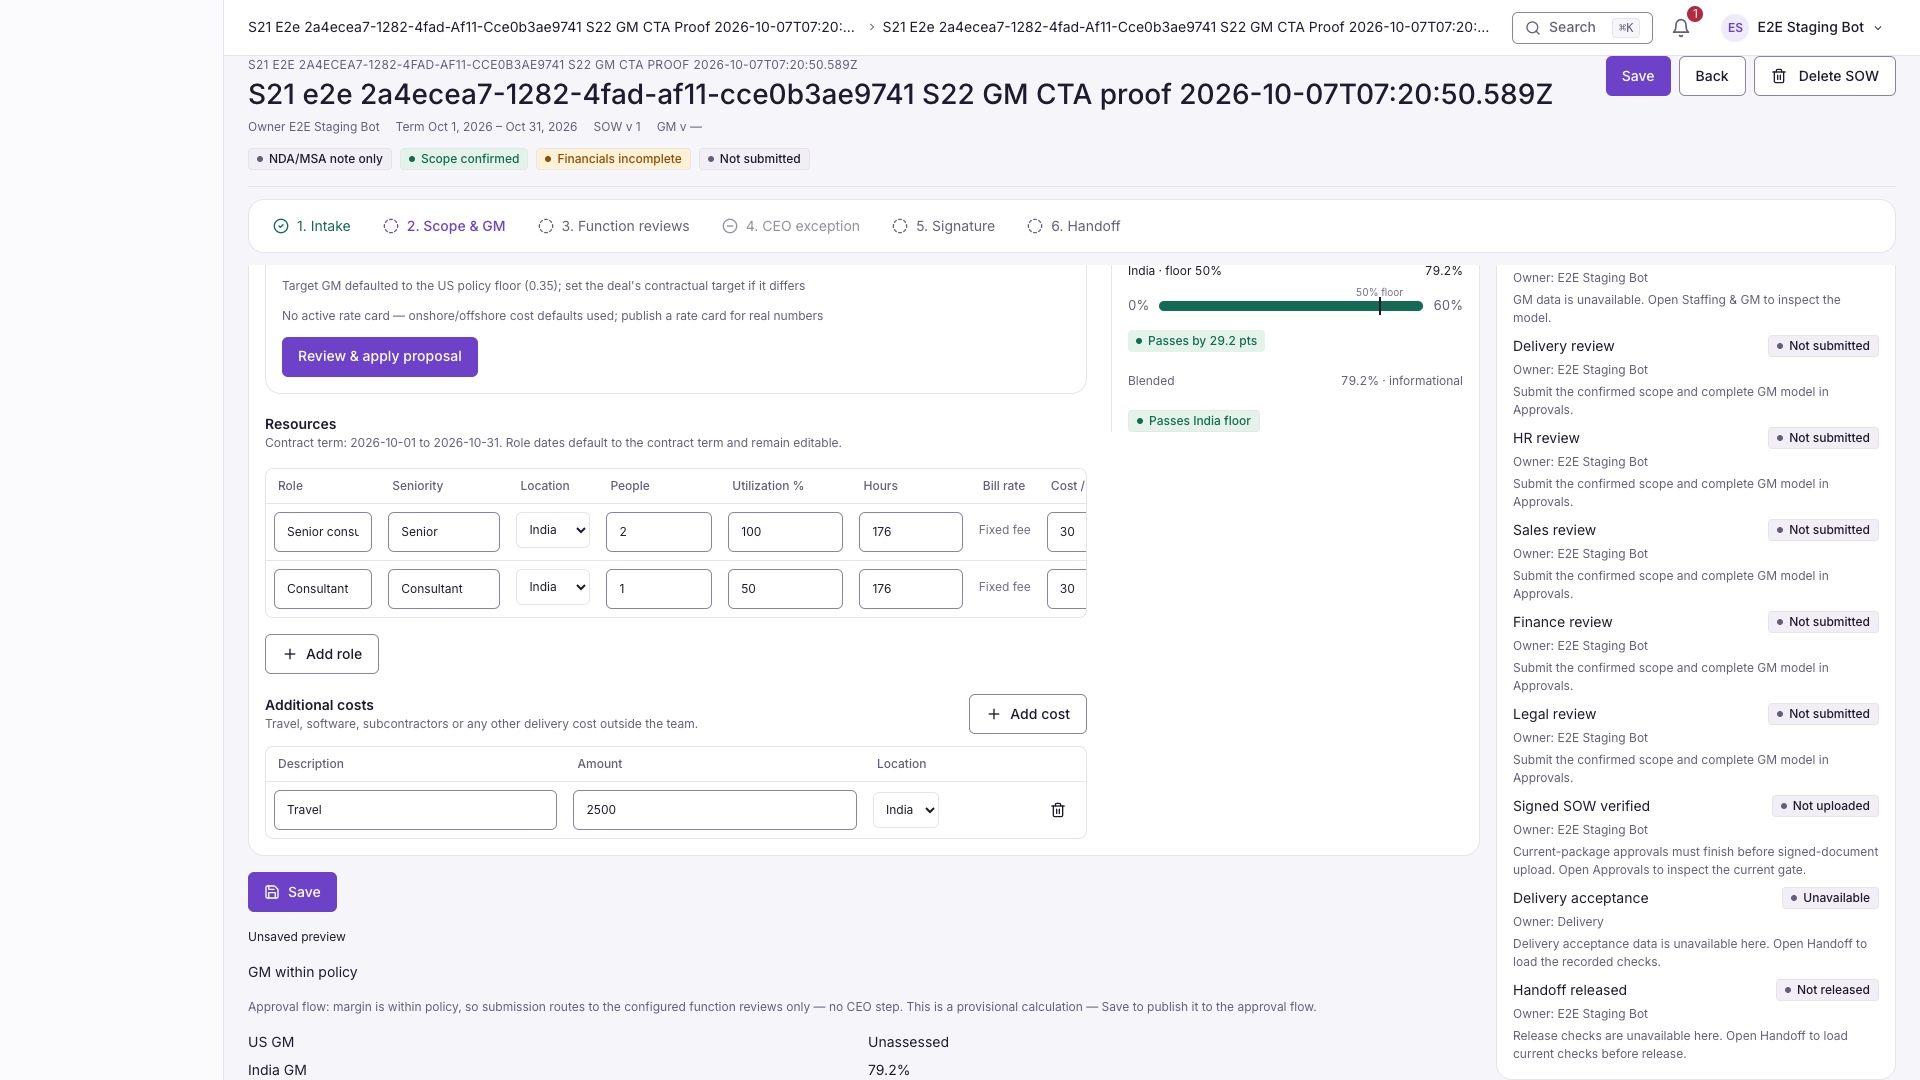
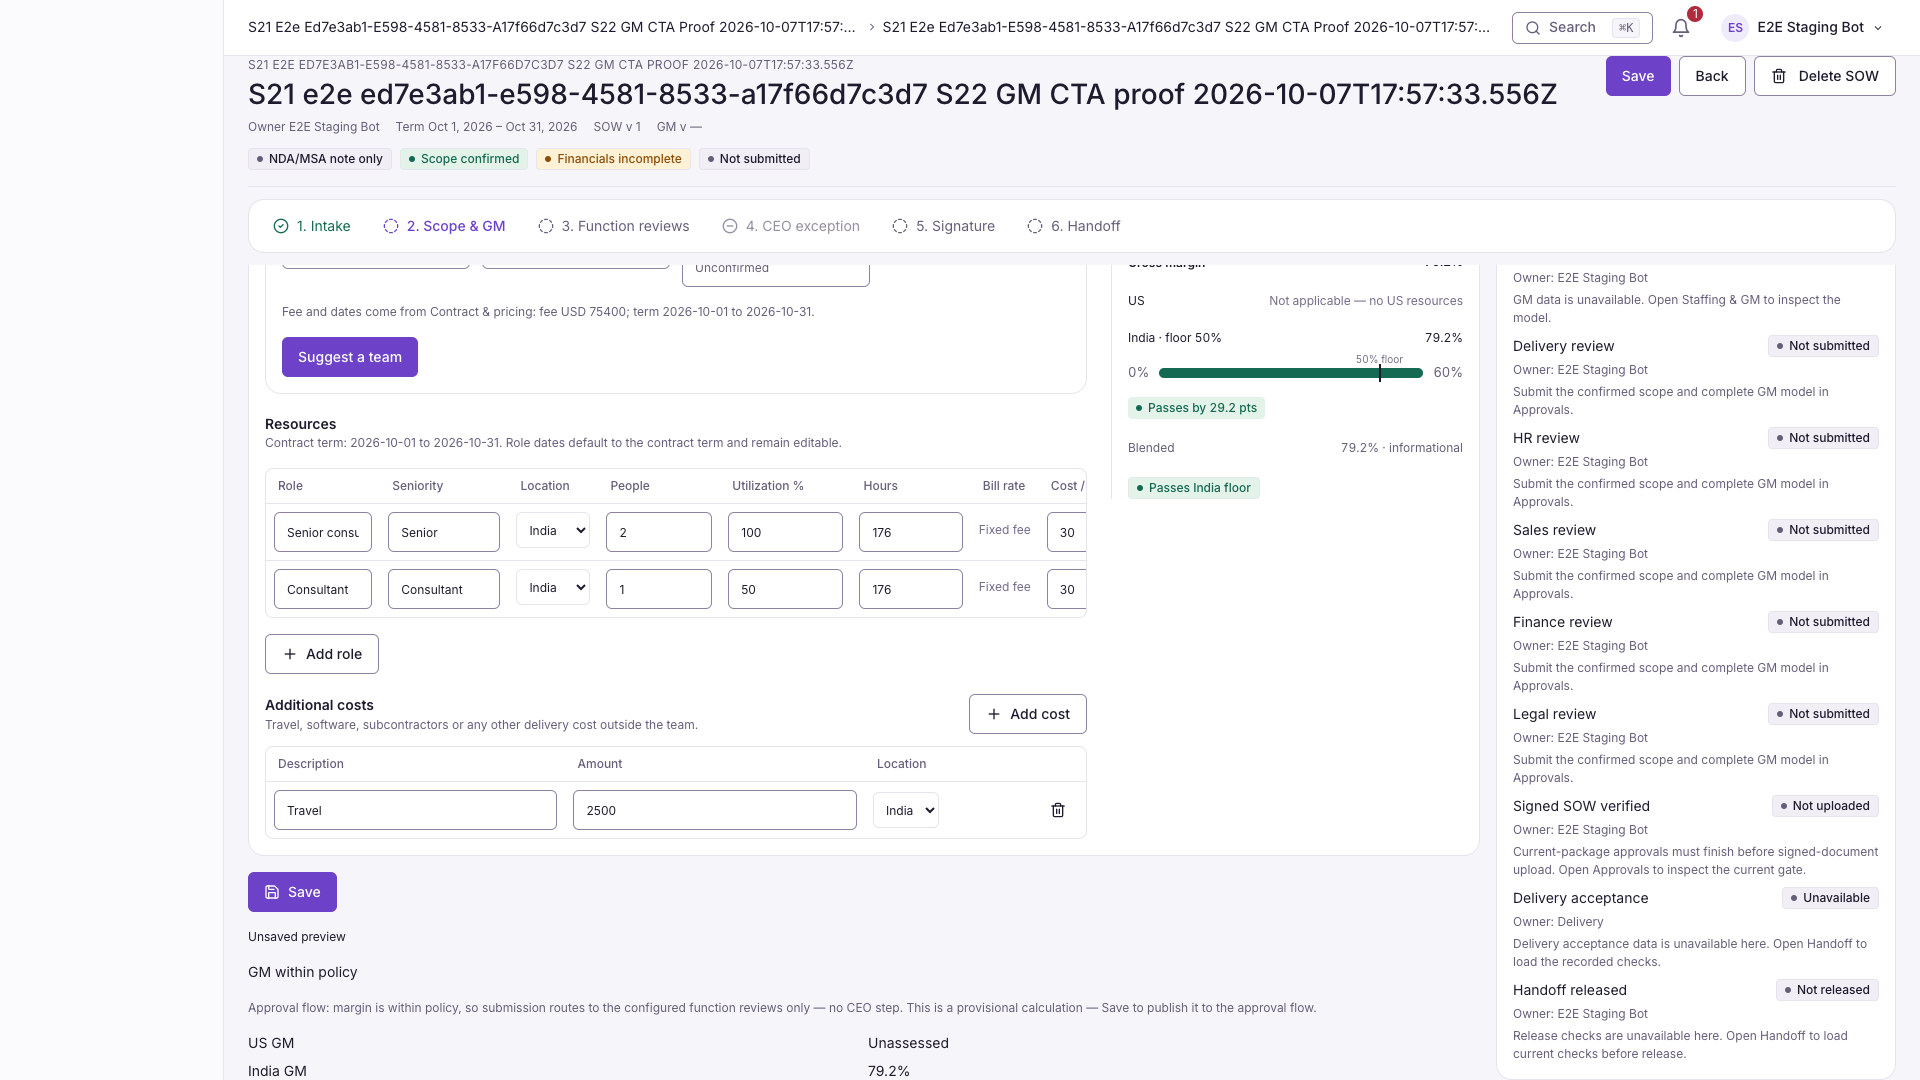
test(s22): prove confirm SOW staging flow

diff --git a/tests/e2e/specs/s21/s22-gm-cta-deployed-proof.spec.ts b/tests/e2e/specs/s21/s22-gm-cta-deployed-proof.spec.ts
@@ -133,6 +133,7 @@ test("fixed-fee staffing calculates, persists and advances without a CTA loop", 
       term_start: "2026-10-01",
       term_end: "2026-10-31",
       notice_date: "2026-10-15",
+      signatories: [{ name: "E2E Client Signatory", role: "Client" }],
       engagement_type_suggested: "fixed_price",
     };
     for (const field of REQUIRED_FIELDS) {
@@ -271,13 +272,30 @@ test("fixed-fee staffing calculates, persists and advances without a CTA loop", 
     await page.screenshot({ path: path.join(EVIDENCE, "02-calculated-financials-save-action.png") });
 
     await saveAction.click();
-    await expect(page.getByRole("status")).toContainText("Commercial version saved", { timeout: 45_000 });
-    await expect(page.getByRole("button", { name: "Submit for approval" })).toBeVisible({ timeout: 45_000 });
+    await expect(page).toHaveURL(new RegExp(`/sows/new\\?opportunityId=${opportunityId}`), {
+      timeout: 45_000,
+    });
+    await expect(page.getByRole("heading", { name: "Confirm SOW" })).toBeVisible();
+    await expect(page.getByTestId("field-row-term_start")).toContainText("2026-10-01");
+    await expect(page.getByTestId("field-row-term_end")).toContainText("2026-10-31");
+    await expect(page.locator("#section-staffing")).toContainText("79.2%");
+    const approvalPath = page.locator("#section-approvers");
+    for (const label of ["Delivery", "HR", "Finance", "Legal"]) {
+      await expect(approvalPath).toContainText(label);
+    }
+    await expect(approvalPath).toContainText("Not required");
+    await expect(page.getByRole("button", { name: "Submit for approval" })).toHaveCount(0);
+    await page.screenshot({ path: path.join(EVIDENCE, "03-confirm-sow-dates-gm-and-approval-path.png") });
+
     await page.reload();
+    await expect(page.getByRole("heading", { name: "Confirm SOW" })).toBeVisible({ timeout: 45_000 });
+    await expect(page.getByTestId("field-row-term_start")).toContainText("2026-10-01");
+    await expect(page.getByTestId("field-row-term_end")).toContainText("2026-10-31");
+    await expect(page.locator("#section-staffing")).toContainText("79.2%");
+
+    await page.getByRole("button", { name: "Complete scope" }).click();
+    await expect(page).toHaveURL(new RegExp(`/sows/${opportunityId}/approvals`), { timeout: 45_000 });
     await expect(page.getByRole("button", { name: "Submit for approval" })).toBeVisible({ timeout: 45_000 });
-    await expect(page.getByRole("region", { name: "GM summary" })).toContainText("$15,700");
-    await expect(page.getByRole("region", { name: "GM summary" })).toContainText("79.2%");
-    await page.screenshot({ path: path.join(EVIDENCE, "03-save-reload-submit-action.png") });
 
     await page.getByRole("button", { name: "Submit for approval" }).click();
     await expect(page.getByRole("heading", { name: "Submit for approval" })).toBeVisible();
@@ -290,7 +308,8 @@ test("fixed-fee staffing calculates, persists and advances without a CTA loop", 
     await expect(page).toHaveURL(new RegExp(`/sows/${opportunityId}/approvals`), { timeout: 45_000 });
     await expect(page.getByRole("button", { name: "View review status" })).toBeVisible({ timeout: 45_000 });
     await expect(page.getByText(/Submitted by/).first()).toBeVisible();
-    await page.screenshot({ path: path.join(EVIDENCE, "04-transition-persisted-review-status.png") });
+    await expect(page.getByText(/Pending with|Queued for/).first()).toBeVisible();
+    await page.screenshot({ path: path.join(EVIDENCE, "04-approvals-pipeline-status.png") });
   } finally {
     if (clientId) await deleteAndDrain(api, clientId);
     await api.dispose();

diff --git a/docs/s21/evidence/staging/s22-gm-cta/report.md b/docs/s21/evidence/staging/s22-gm-cta/report.md
@@ -2,18 +2,18 @@
 
 Tested 2026-10-07 PDT against `https://app.dealgateapp.com` from branch
 `fix/s22-gm-cta`, application checkpoint
-`e92b4ddfef82d0bc808f3fe524773f8dc874b5f7` and pre-deploy documentation
-checkpoint `60fde64f55e89ff924196fb64ca8afe9a4a5fcbb`.
+`5cd52ea490729227b380988288455273e9282684` and pre-deploy documentation
+checkpoint `0b5a04620b29c9339d65a0a62029bb8d5efd937c`.
 
 ## Deployed revisions
 
-- API: ECS task definition `officeapp-dev-api:88`, rollout completed 1/1
-- Image: `s22simple-e92b4dd`
-- Digest: `sha256:34dc726a5e1e4fd034d74c7513bb3d9d812459a2f1ecce3388880f3bff16a455`
-- Frontend: `assets/index-dqUPUe4H.js`, CSS `assets/index-CGMBFthR.css`
-- CloudFront invalidation: `ICQ1QCRL5JXEXS6V5DJFFZTIQ4` (completed)
-- Migration task: `e2518e23e4794eeeafb7aea0d051e255` (succeeded)
-- Deploy smoke: `smoke 20261007T071522Z` (green; cleanup gate clean)
+- API: ECS task definition `officeapp-dev-api:89`, rollout completed 1/1
+- Image: `s22confirm-5cd52ea`
+- Digest: `sha256:a037c926b3b0691ed5209e6f96c6b9bde7cf3b8c6c4ee428caff772d3338d111`
+- Frontend: `assets/index-NGaZkXeJ.js`, CSS `assets/index-CGMBFthR.css`
+- CloudFront invalidation: `I4P250ECLXKHD7DMFHW619SM02` (completed)
+- Migration task: `c7b7207dc72d435ca1c67b3e5eabbd3b` (succeeded)
+- Deploy smoke: `smoke 20261007T175159Z` (green; cleanup gate clean)
 
 ## Connected proof
 
@@ -27,7 +27,7 @@ env AWS_PROFILE=lm-arbiter-poc AWS_PROFILE_STAGING=lm-arbiter-poc \
   --project=chromium
 ```
 
-Result: **1 passed in 2.6 minutes**. The fresh browser used a server-issued
+Result: **1 passed in 2.0 minutes**. The fresh browser used a server-issued
 fixture and six real Cognito identities. It exercised the deployed SPA, API,
 RDS draft/version storage, authoritative Decimal calculation and approval
 state machine; no feature response was mocked.
@@ -55,19 +55,23 @@ The sequence proved:
    screen.
 3. Entering both Hours values and the additional cost produced the independent
    financial expectation through the server calculation service.
-4. The primary action changed to `Save`; saving and fully reloading preserved
-   the commercial version and changed the action to `Submit for approval`.
-5. Confirming the real reviewer plan persisted the review state and changed
-   the action to `View review status`.
-6. Teardown deleted the fixture; `scripts/check-test-data-clean.sh` reported
+4. The primary action changed to `Save`; saving opened `Confirm SOW` rather
+   than exposing approval submission inside Staffing & GM.
+5. Confirm SOW showed term start/end, the saved 79.2% GM, Delivery, HR,
+   Finance and Legal, and `CEO exception — Not required`; a full reload
+   preserved those values.
+6. `Complete scope` navigated to Approvals. Confirming the real reviewer plan
+   persisted the review state and displayed approved/pending/queued pipeline
+   status rather than looping back to Staffing & GM.
+7. Teardown deleted the fixture; `scripts/check-test-data-clean.sh` reported
    zero test clients and zero e2e approvers on real SOWs.
 
 ## Screenshots
 
 - `01-before-known-revenue-and-row-blocker.png`
 - `02-calculated-financials-save-action.png`
-- `03-save-reload-submit-action.png`
-- `04-transition-persisted-review-status.png`
+- `03-confirm-sow-dates-gm-and-approval-path.png`
+- `04-approvals-pipeline-status.png`
 
 ## Original record
 
@@ -75,6 +79,13 @@ Opportunity `bbefb2b0-90fc-4a7c-8995-bbe637b44654` remained read-only. The
 deployed proof used an isolated equivalent fixture for every mutation.
 
 ## Diagnostic history
+
+- The first refreshed connected run reached the correct confirmation page but
+  stopped because the sample document extracted `signatories.value=null`; the
+  proof had incorrectly treated null as a valid confirmed signatory. Its trace
+  showed dates, complete GM and staffing intact. The fixture was deleted, the
+  proof was corrected to supply an explicit client signatory, and the one
+  relevant rerun passed.
 
 - The 2026-10-06 proof covered the older full-calendar workflow on API
   revision 87 and is superseded by this report and the refreshed screenshots.

diff --git a/docs/s21/claude-handoff.md b/docs/s21/claude-handoff.md
@@ -2,6 +2,56 @@
 
 ## RESUME HERE
 
+**2026-10-07 11:00 PDT — RESTORED CONFIRM SOW FLOW DEPLOYED AND CONNECTED
+PROOF GREEN; PRODUCT-OWNER CLICK-THROUGH NEXT.** Authoritative tree is
+`/Users/srikanthparimi/OfficeApp/dealgate-s22-gm-cta`, branch
+`fix/s22-gm-cta`, current committed head
+`0b5a04620b29c9339d65a0a62029bb8d5efd937c`, with application fix
+`5cd52ea490729227b380988288455273e9282684`. Main remains
+`3ef55e576508af70e5c34d8593eec09db1d01560` and is untouched. The deployed-
+proof spec, report, four refreshed screenshots and this handoff are the only
+owned dirty/untracked files; no test, browser, deployment or migration process
+is active.
+
+Terraform applied exactly the approved **11 add / 13 change / 11 destroy**
+plan. Migration task `c7b7207dc72d435ca1c67b3e5eabbd3b` succeeded. The API
+is rollout-complete 1/1 on ECS task definition `officeapp-dev-api:89`, image
+`s22confirm-5cd52ea`, digest
+`sha256:a037c926b3b0691ed5209e6f96c6b9bde7cf3b8c6c4ee428caff772d3338d111`.
+The matching SPA is live as `assets/index-NGaZkXeJ.js` with CSS
+`assets/index-CGMBFthR.css`; CloudFront invalidation
+`I4P250ECLXKHD7DMFHW619SM02` completed. Deploy smoke
+`smoke 20261007T175159Z` passed on that exact task/digest and cleaned its
+fixture.
+
+Fresh-session connected proof is **1 passed in 2.0 minutes**. It used a
+server-issued disposable client, real Cognito roles, deployed SPA/API/RDS and
+the authoritative Decimal GM service. Two staffing rows (two people at 100%,
+one at 50%, 176 hours each at USD 30/hour) plus USD 2,500 Travel independently
+expected USD 75,400 revenue, USD 13,200 labor, USD 15,700 total cost, USD
+59,700 gross profit and 79.2% GM. The UI matched. Save then opened Confirm SOW
+with `2026-10-01` to `2026-10-31`, 79.2% GM, Delivery/HR/Finance/Legal and
+`CEO exception — Not required`; reload preserved them. `Complete scope`
+navigated to Approvals, real reviewer submission succeeded, and the page showed
+the persisted pending/queued review pipeline. Final cleanup gate reported zero
+test-tagged clients and zero e2e approvers on real SOWs.
+
+The first refreshed proof attempt stopped at disabled `Complete scope`. Trace
+evidence isolated it to the proof fixture confirming a null extracted
+signatory; dates, GM and staffing were intact. The fixture was deleted, an
+explicit client signatory was supplied, and the one relevant rerun passed. The
+green conditional-CEO path is proven deployed. The below-floor `CEO will
+trigger` branch remains covered by focused UI and backend routing tests from
+the same application commit, not by a second staging fixture in this
+checkpoint.
+
+Evidence is `docs/s21/evidence/staging/s22-gm-cta/report.md` and the four
+current PNGs linked there. Exact next commands:
+`cd /Users/srikanthparimi/OfficeApp/dealgate-s22-gm-cta && git diff --check && git status --short`,
+then commit/push only the proof spec, report, four refreshed screenshots and
+this handoff. Stop for product-owner staging click-through at
+`https://app.dealgateapp.com`; do not merge main without explicit acceptance.
+
 **2026-10-07 01:09 PDT — CONFIRM SOW FIX COMMITTED/PUSHED; REVIEWED
 TERRAFORM PLAN AWAITS HUMAN APPROVAL.** Authoritative tree is
 `/Users/srikanthparimi/OfficeApp/dealgate-s22-gm-cta`, branch
